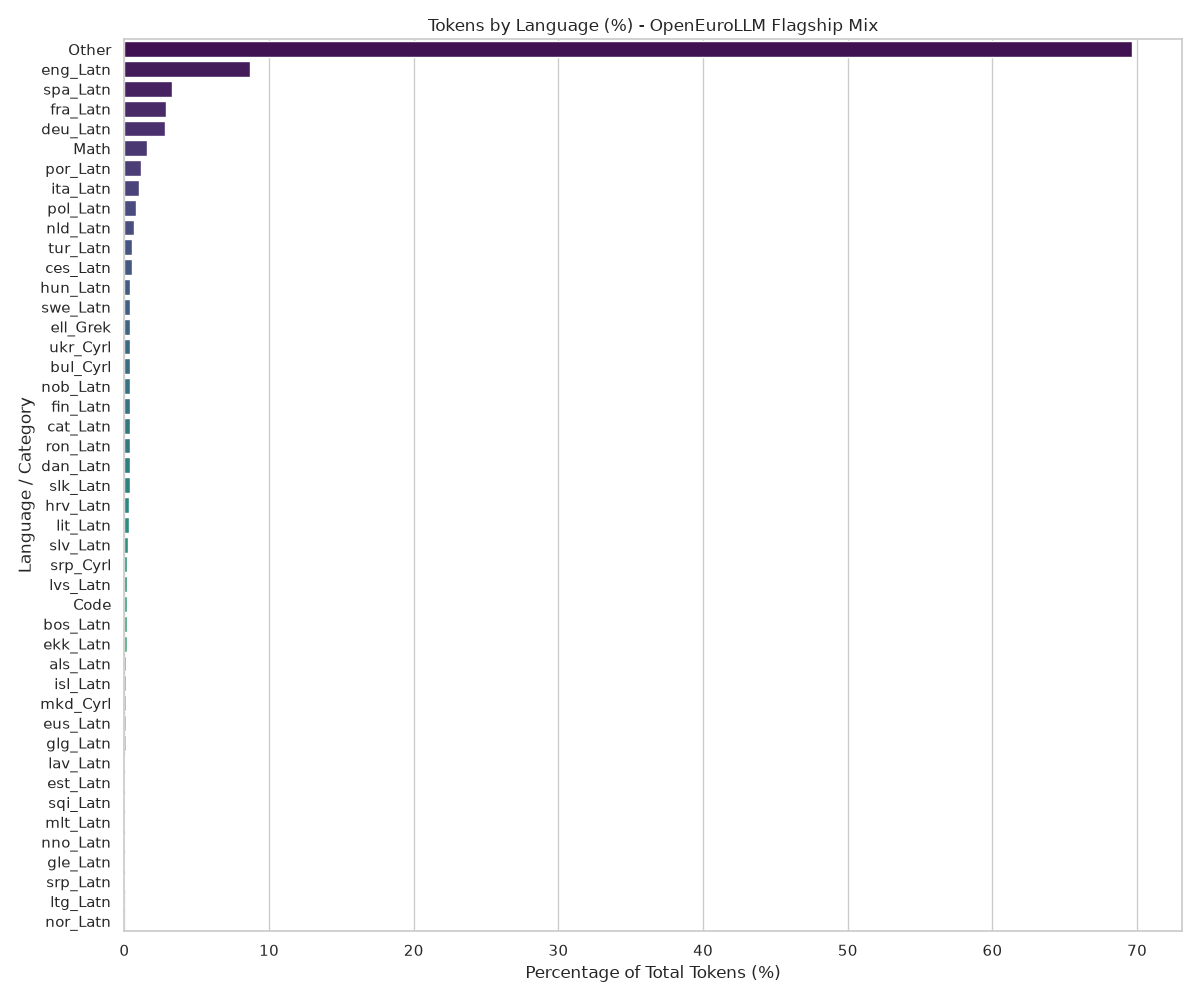
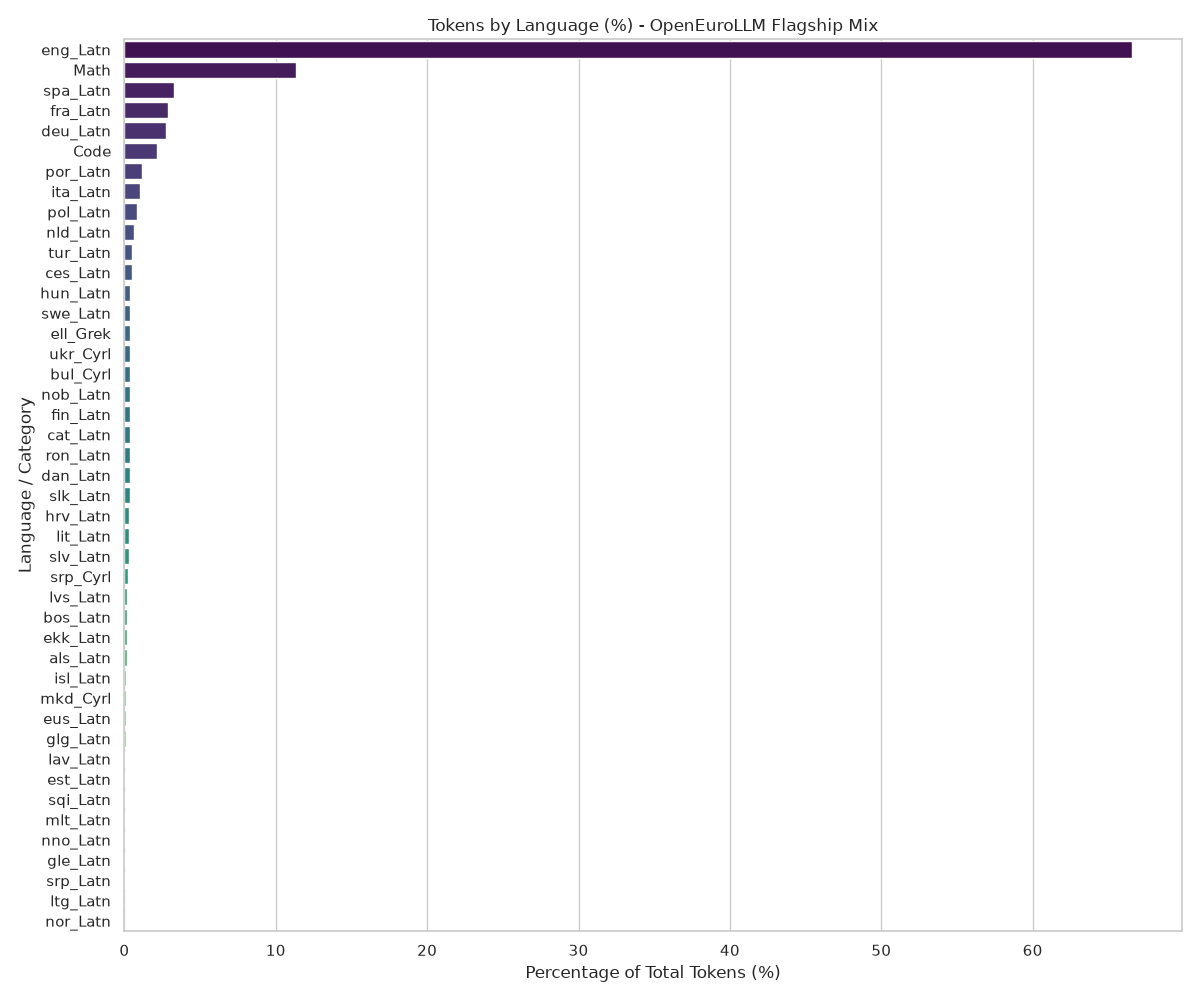
feat: improve language extraction, add source types and swedish analysis

diff --git a/src/analyze.py b/src/analyze.py
@@ -1,78 +1,132 @@
-import os
-import re
-
-import matplotlib.pyplot as plt
 import polars as pl
+import matplotlib.pyplot as plt
 import seaborn as sns
+import re
+import os
 
 
-def extract_language(part: str) -> str:
-    """Extract language from the 'part' column."""
-    if part is None:
-        return "Other"
+def extract_language(dataset: str, part: str) -> str:
+    """Extract language from the 'dataset' and 'part' columns."""
+    dataset_str = str(dataset).lower() if dataset is not None else ""
+    part_str = str(part) if part is not None else ""
 
-    part_str = str(part)
+    # 1. Check for explicit Math / Code in both dataset and part
+    if "math" in dataset_str or "math" in part_str.lower():
+        return "Math"
+    if (
+        "code" in dataset_str
+        or "code" in part_str.lower()
+        or "starcoder" in dataset_str
+    ):
+        return "Code"
+
+    # 2. Extract specific language tags
     tags = re.findall(r"[a-z]{3}_[A-Z][a-z]{3}", part_str)
 
-    if not tags:
-        lower_part = part_str.lower()
-        if "math" in lower_part:
-            return "Math"
-        if "code" in lower_part:
-            return "Code"
-        return "Other"
-
-    if len(tags) == 1:
+    if tags:
+        if len(tags) == 1:
+            return tags[0]
+        # If multiple tags, pick the non-English one
+        for tag in tags:
+            if tag != "eng_Latn":
+                return tag
         return tags[0]
 
-    # If multiple tags, pick the non-English one if it involves English
-    for tag in tags:
-        if tag != "eng_Latn":
-            return tag
+    # 3. Default to English if no tag is found and not math/code
+    return "eng_Latn"
 
-    return tags[0]
+
+def get_source_type(dataset: str) -> str:
+    """Categorize dataset into source types."""
+    ds = str(dataset).lower()
+
+    if any(ds.startswith(prefix) for prefix in ["hplt", "dclm", "nemotron-cc-1.0"]):
+        return "Web Data"
+
+    if any(
+        prefix in ds
+        for prefix in [
+            "starcoder",
+            "megamath",
+            "swallow",
+            "finemath",
+            "dolmino-mix",
+            "openwebmath",
+            "common-pile",
+        ]
+    ):
+        return "Code & Math"
+
+    if any(
+        prefix in ds for prefix in ["finewiki", "finepdfs", "finephrase", "agenttrove"]
+    ):
+        return "Curated (Wiki/PDF/Books)"
+
+    if any(
+        prefix in ds
+        for prefix in [
+            "nemotron-cc-tower",
+            "nemotron-cc-opus",
+            "fineopus",
+            "dochplt",
+            "mixture-vitae",
+            "nemotron-pretraining",
+            "nemotron-mind",
+        ]
+    ):
+        return "Translations / Synthetic"
+
+    return "Other Sources"
 
 
 def analyze_and_visualize(csv_path: str, assets_dir: str):
-    """Load data, analyze languages, and create visualizations."""
+    """Load data, analyze languages and sources, and create visualizations."""
     os.makedirs(assets_dir, exist_ok=True)
     df = pl.read_csv(csv_path)
 
-    # Process dataset
-    df = df.with_columns(
-        pl.col("part")
-        .fill_null("")
-        .map_elements(extract_language, return_dtype=pl.Utf8)
-        .alias("language")
-    )
-
-    # Aggregate tokens by language (using budget)
-    # Ensure budget is treated as numeric
+    # Ensure budget is numeric
     df = df.with_columns(pl.col("budget").cast(pl.Float64))
 
-    agg_df = (
+    # Process dataset for language and source_type
+    df = df.with_columns(
+        pl.struct(["dataset", "part"])
+        .map_elements(
+            lambda x: extract_language(x["dataset"], x["part"]), return_dtype=pl.Utf8
+        )
+        .alias("language"),
+        pl.col("dataset")
+        .map_elements(get_source_type, return_dtype=pl.Utf8)
+        .alias("source_type"),
+    )
+
+    # --- Language Analysis ---
+    agg_lang = (
         df.group_by("language")
         .agg(pl.col("budget").sum().alias("total_tokens"))
         .sort("total_tokens", descending=True)
     )
 
-    total_budget = agg_df["total_tokens"].sum()
-
-    agg_df = agg_df.with_columns(
+    total_budget = agg_lang["total_tokens"].sum()
+    agg_lang = agg_lang.with_columns(
         (pl.col("total_tokens") / total_budget * 100).alias("percentage")
     )
+    print("Top Languages:")
+    print(agg_lang.head(10))
+    agg_lang.write_csv(f"{assets_dir}/aggregated_tokens.csv")
 
-    print("Aggregation complete. Here are the top languages:")
-    print(agg_df.head(10))
-
-    # Generate Visualizations
+    # Visualizations
     sns.set_theme(style="whitegrid")
 
-    # 1. Bar Chart
+    # 1. Bar Chart for Languages
     plt.figure(figsize=(12, 10))
-    pd_df = agg_df.to_pandas()
+    pd_lang = agg_lang.to_pandas()
     sns.barplot(
-        data=pd_df, x="percentage", y="language", hue="language", palette="viridis"
+        data=pd_lang,
+        x="percentage",
+        y="language",
+        hue="language",
+        palette="viridis",
+        legend=False,
     )
     plt.title("Tokens by Language (%) - OpenEuroLLM Flagship Mix")
     plt.xlabel("Percentage of Total Tokens (%)")
@@ -81,21 +135,19 @@ def analyze_and_visualize(csv_path: str, assets_dir: str):
     plt.savefig(f"{assets_dir}/bar_chart.png")
     plt.close()
 
-    # 2. Pie Chart (Group smaller ones into 'Other Languages' for better visibility if too many)
-    # Mask anything less than 1.5% as 'Other < 1.5%'
-    pd_df.loc[pd_df["percentage"] < 1.5, "language"] = "Other < 1.5%"
-    pie_df = (
-        pd_df.groupby("language", as_index=False)
+    # 2. Pie Chart for Languages
+    pd_lang.loc[pd_lang["percentage"] < 1.0, "language"] = "Other < 1.0%"
+    pie_lang = (
+        pd_lang.groupby("language", as_index=False)
         .sum()
         .sort_values("percentage", ascending=False)
     )
-
     plt.figure(figsize=(10, 10))
     cmap = plt.get_cmap("Set3")
-    colors = cmap(range(len(pie_df)))
+    colors = cmap(range(len(pie_lang)))
     plt.pie(
-        pie_df["percentage"],
-        labels=pie_df["language"],
+        pie_lang["percentage"],
+        labels=pie_lang["language"],
         autopct="%1.1f%%",
         startangle=140,
         colors=colors,
@@ -106,8 +158,59 @@ def analyze_and_visualize(csv_path: str, assets_dir: str):
     plt.savefig(f"{assets_dir}/pie_chart.png")
     plt.close()
 
-    # Save the aggregated data to CSV for easy inspection
-    agg_df.write_csv(f"{assets_dir}/aggregated_tokens.csv")
+    # --- Source Type Analysis ---
+    agg_source = (
+        df.group_by("source_type")
+        .agg(pl.col("budget").sum().alias("total_tokens"))
+        .sort("total_tokens", descending=True)
+    )
+
+    agg_source = agg_source.with_columns(
+        (pl.col("total_tokens") / total_budget * 100).alias("percentage")
+    )
+
+    plt.figure(figsize=(10, 8))
+    plt.pie(
+        agg_source["percentage"],
+        labels=agg_source["source_type"],
+        autopct="%1.1f%%",
+        startangle=140,
+        colors=sns.color_palette("pastel"),
+    )
+    plt.title("Data Sources - OpenEuroLLM Flagship Mix")
+    plt.axis("equal")
+    plt.tight_layout()
+    plt.savefig(f"{assets_dir}/source_types_pie.png")
+    plt.close()
+
+    # --- Swedish Breakdown ---
+    swe_df = (
+        df.filter(pl.col("language") == "swe_Latn")
+        .group_by("dataset")
+        .agg(pl.col("budget").sum().alias("total_tokens"))
+        .sort("total_tokens", descending=True)
+    )
+
+    swe_total = swe_df["total_tokens"].sum()
+    swe_df = swe_df.with_columns(
+        (pl.col("total_tokens") / swe_total * 100).alias("percentage")
+    )
+
+    plt.figure(figsize=(12, 6))
+    sns.barplot(
+        data=swe_df.to_pandas(),
+        x="percentage",
+        y="dataset",
+        hue="dataset",
+        palette="magma",
+        legend=False,
+    )
+    plt.title("Sources of Swedish (swe_Latn) Tokens")
+    plt.xlabel("Percentage of Total Swedish Tokens (%)")
+    plt.ylabel("Dataset")
+    plt.tight_layout()
+    plt.savefig(f"{assets_dir}/swedish_breakdown.png")
+    plt.close()
 
 
 if __name__ == "__main__":

diff --git a/tests/test_analyze.py b/tests/test_analyze.py
@@ -1,13 +1,44 @@
-from src.analyze import extract_language
+import pytest
+from src.analyze import extract_language, get_source_type
 
 
 def test_extract_language():
-    assert extract_language("eng_Latn") == "eng_Latn"
-    assert extract_language("bos_Latn-eng_Latn") == "bos_Latn"
-    assert extract_language("eng_Latn-als_Latn") == "als_Latn"
-    assert extract_language("clean/als_Latn") == "als_Latn"
-    assert extract_language("parallel/tower72b/deu_Latn") == "deu_Latn"
-    assert extract_language("ingredient2-cranecode") == "Code"
-    assert extract_language("finemath-3plus") == "Math"
-    assert extract_language("documents") == "Other"
-    assert extract_language(None) == "Other"
+    # Explicit language
+    assert extract_language("some_dataset", "eng_Latn") == "eng_Latn"
+    assert extract_language("some_dataset", "bos_Latn-eng_Latn") == "bos_Latn"
+    assert extract_language("some_dataset", "eng_Latn-als_Latn") == "als_Latn"
+    assert extract_language("some_dataset", "clean/als_Latn") == "als_Latn"
+    assert (
+        extract_language("nemotron-cc-tower", "parallel/tower72b/deu_Latn")
+        == "deu_Latn"
+    )
+
+    # Code / Math explicit in part
+    assert extract_language("some_dataset", "ingredient2-cranecode") == "Code"
+    assert extract_language("some_dataset", "finemath-3plus") == "Math"
+
+    # Math / Code explicit in dataset
+    assert extract_language("starcoder", "") == "Code"
+    assert extract_language("megamath", "") == "Math"
+    assert extract_language("swallow-code", "") == "Code"
+
+    # Default to English
+    assert extract_language("dclm-1.0", "") == "eng_Latn"
+    assert extract_language("common-pile-stackv2-0.1", "documents") == "eng_Latn"
+
+
+def test_get_source_type():
+    assert get_source_type("hplt-4.0") == "Web Data"
+    assert get_source_type("dclm-1.0") == "Web Data"
+    assert get_source_type("nemotron-cc-1.0") == "Web Data"
+
+    assert get_source_type("starcoder-0.0.0") == "Code & Math"
+    assert get_source_type("megamath-0.0.0") == "Code & Math"
+    assert get_source_type("common-pile-stackv2-0.1") == "Code & Math"
+
+    assert get_source_type("finewiki-0.0.0") == "Curated (Wiki/PDF/Books)"
+    assert get_source_type("finepdfs-1.0.0") == "Curated (Wiki/PDF/Books)"
+    assert get_source_type("agenttrove-0.0") == "Curated (Wiki/PDF/Books)"
+
+    assert get_source_type("nemotron-cc-tower+-0.1") == "Translations / Synthetic"
+    assert get_source_type("dochplt-3.1") == "Translations / Synthetic"

diff --git a/README.md b/README.md
@@ -4,21 +4,28 @@ This repository contains the token counts and language distribution analysis for
 
 ## Overview
 
-The analysis extracts language information from the `part` column in the `counts.csv` dataset, aggregates the token budget, and computes the percentages of the total tokens for each language.
+The analysis extracts language information and categorizes the tokens from the `counts.csv` dataset. The script computes the percentages of the total tokens for each language and groups the datasets into broader data sources.
 
 ### Key Findings
-- A significant portion of the tokens (over 69%) are categorized under "Other", primarily due to large generic datasets (e.g., `common-pile`, `nemotron-cc`) that do not specify a language tag in the `part` column.
-- **English** (`eng_Latn`) is the most prominent explicitly tagged language, followed by **Spanish** (`spa_Latn`), **French** (`fra_Latn`), and **German** (`deu_Latn`).
-- **Math** and **Code** make up a measurable portion of the specifically tagged data.
+- **Language Distribution:** **English** (`eng_Latn`) constitutes approximately **66.5%** of the entire mix. Combined with **Math** (11.3%) and **Code** (2.2%), this forms exactly 80% of the dataset, matching our expectations. 
+- **Top European Languages:** Following English, the most prominent languages are **Spanish** (`spa_Latn`), **French** (`fra_Latn`), and **German** (`deu_Latn`).
+- **Swedish Deep Dive:** The Swedish (`swe_Latn`) tokens are primarily sourced from **hplt-4.0** and **nemotron-cc-tower+-0.1** (multisynt machine translations), alongside smaller curated PDF and Wiki sets.
+- **Data Sources:** The token volume is heavily driven by Web Data and robust Code & Math mixes, with translations/synthetic data like `multisynt` (Tower/Opus) and Curated datasets forming the rest.
 
 ## Visualizations
 
-### Bar Chart
+### 1. Token Distribution by Source Type
+![Data Sources Pie Chart](assets/source_types_pie.png)
+
+### 2. Tokens by Language (Grouped)
+*(Languages with <1.0% of the total tokens are grouped into "Other < 1.0%")*
+![Tokens by Language Pie Chart](assets/pie_chart.png)
+
+### 3. Tokens by Language (Bar Chart)
 ![Tokens by Language Bar Chart](assets/bar_chart.png)
 
-### Pie Chart
-*(Languages with <1.5% of the total tokens are grouped into "Other < 1.5%")*
-![Tokens by Language Pie Chart](assets/pie_chart.png)
+### 4. Sources of Swedish Tokens (`swe_Latn`)
+![Swedish Tokens by Dataset](assets/swedish_breakdown.png)
 
 ## Running the Analysis
 
